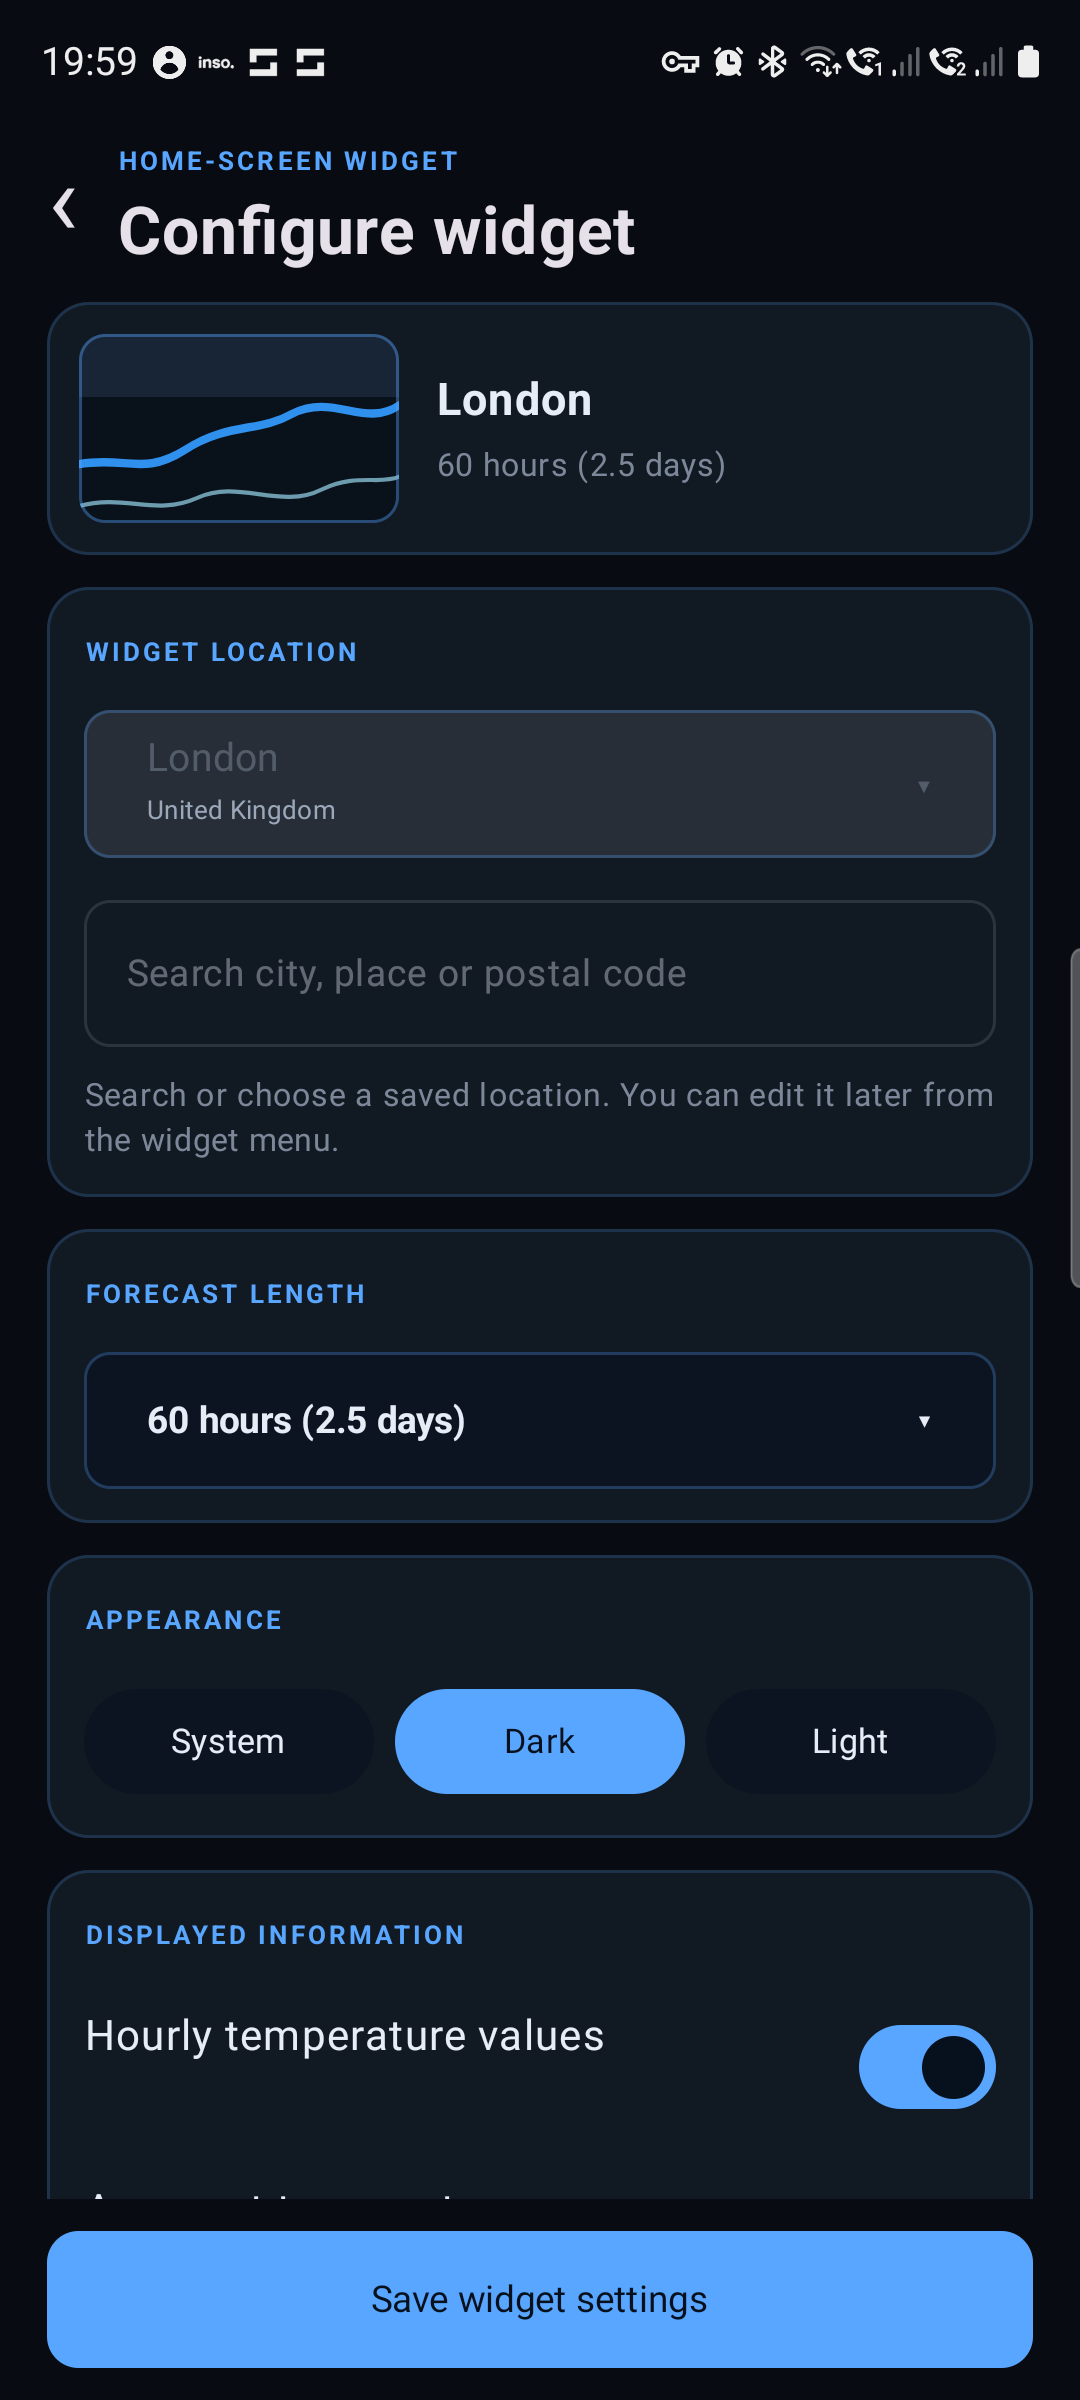
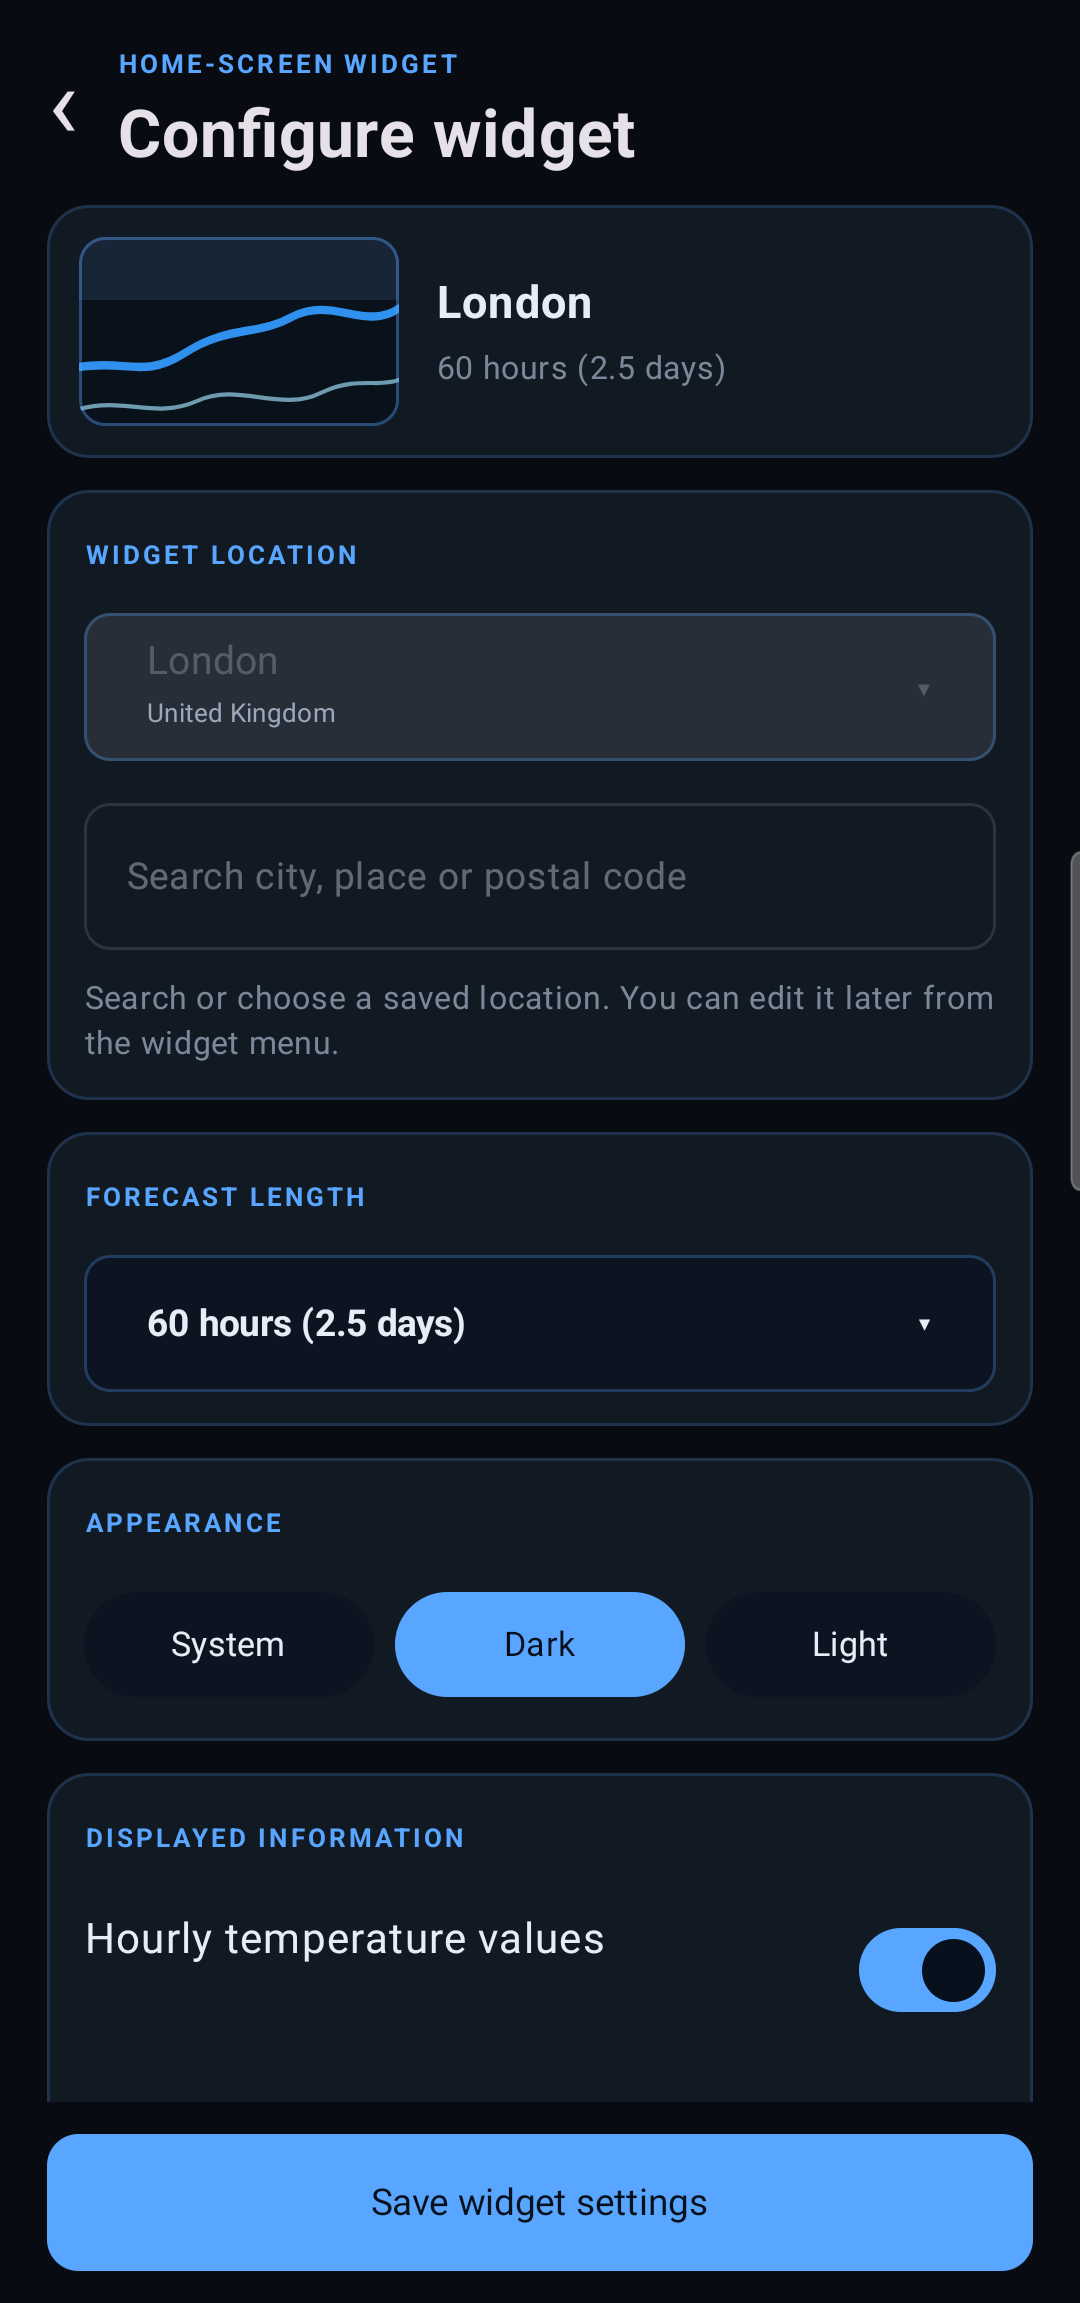
Add widget configuration store graphic

diff --git a/play/store-listing/source/store-listing-widget-configuration.html b/play/store-listing/source/store-listing-widget-configuration.html
@@ -1,0 +1,41 @@
+<!doctype html>
+<html lang="en">
+<head>
+  <meta charset="utf-8">
+  <meta name="viewport" content="width=device-width, initial-scale=1">
+  <title>Vespy Weather - widget configuration store graphic</title>
+  <style>
+    * {
+      box-sizing: border-box;
+    }
+
+    html,
+    body {
+      width: 100%;
+      min-height: 100%;
+      margin: 0;
+      background: #050c12;
+    }
+
+    body {
+      display: grid;
+      place-items: center;
+    }
+
+    .store-slide {
+      display: block;
+      width: 1920px;
+      height: 1080px;
+      border: 0;
+    }
+  </style>
+</head>
+<body>
+  <object
+    class="store-slide"
+    data="store-listing-widget-configuration.svg"
+    type="image/svg+xml"
+    aria-label="Vespy Weather widget configuration store graphic"
+  ></object>
+</body>
+</html>
